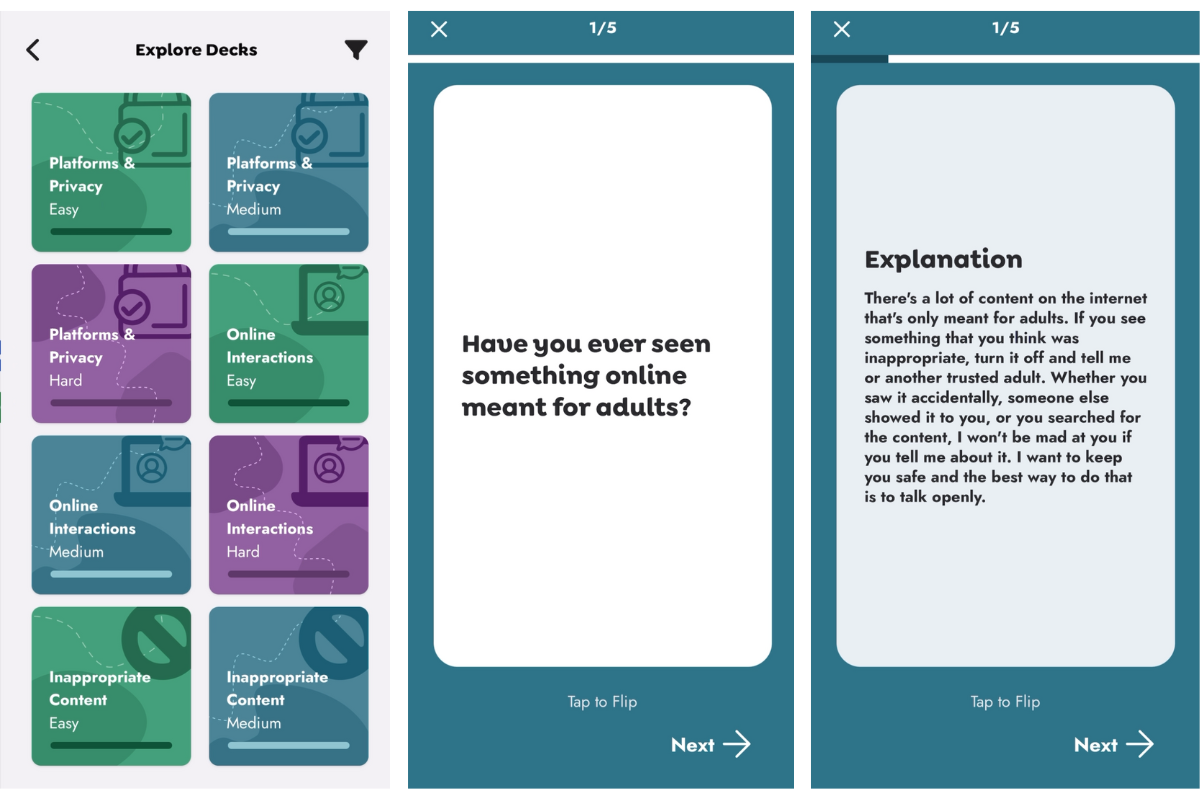
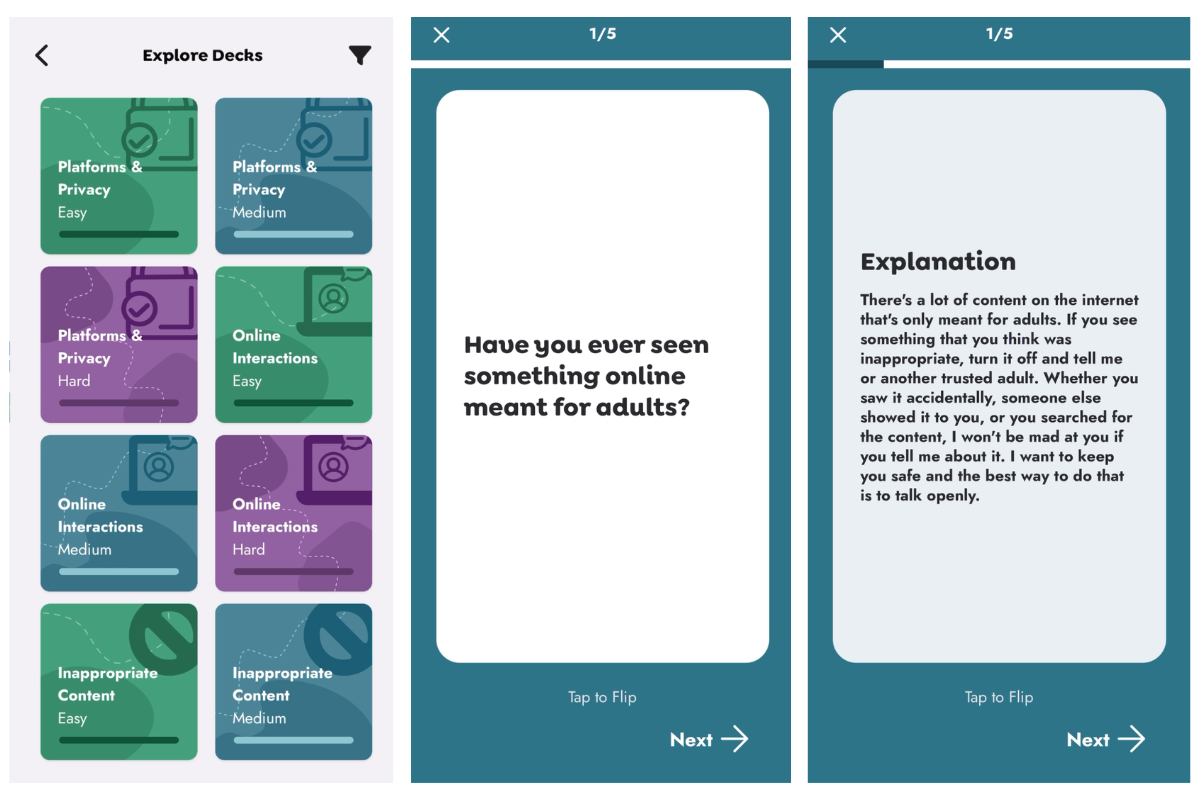
june update

Changed region(s): [[0.3392, 0.0, 1.0, 1.0], [0.0, 0.0312, 0.3083, 0.9688], [0.8942, 0.9062, 0.9558, 0.9375]]

diff --git a/index.html b/index.html
@@ -75,11 +75,33 @@
       <h3>Projects</h3>
       <div class="projects">
         <div class="projects-item">
+          <img src="files/reef.gif" title="Unearthed" />
+          <div class="desc">
+            <a href="https://ixials.github.io/reef/" target="_blank">
+              <strong>Reef</strong>
+            </a>
+            <ul>
+              <li>
+                Built a Goodreads-style reading tracker with custom ratings,
+                tagging, search, analytics, and calendar visualizations using
+                <span class="pink-text">React</span>
+                and
+                <span class="pink-text">TypeScript</span>
+              </li>
+              <li>
+                Implemented GitHub OAuth authentication and Gist-based
+                persistence, enabling secure book management, interactive
+                filtering, and dynamic visualizations of reading habits over
+                time
+              </li>
+            </ul>
+          </div>
+        </div>
+        <div class="projects-item">
           <img src="files/unearthed.gif" title="Unearthed" />
           <div class="desc">
             <a href="https://un-earthed.vercel.app/" target="_blank">
               <strong>Unearthed</strong>
-              — Full-Stack Developer
             </a>
             <ul>
               <li>
@@ -106,7 +128,6 @@
           <div class="desc">
             <a href="https://github.com/cornellh4i/ACT" target="_blank">
               <strong>Alaska Children's Trust</strong>
-              — Full-Stack Developer
             </a>
             <ul>
               <li>
@@ -130,7 +151,6 @@
           <div class="desc">
             <a href="https://github.com/ixials/caml-scrambl" target="_blank">
               <strong>Caml Scrambl</strong>
-              — Software Engineer
             </a>
             <ul>
               <li>
